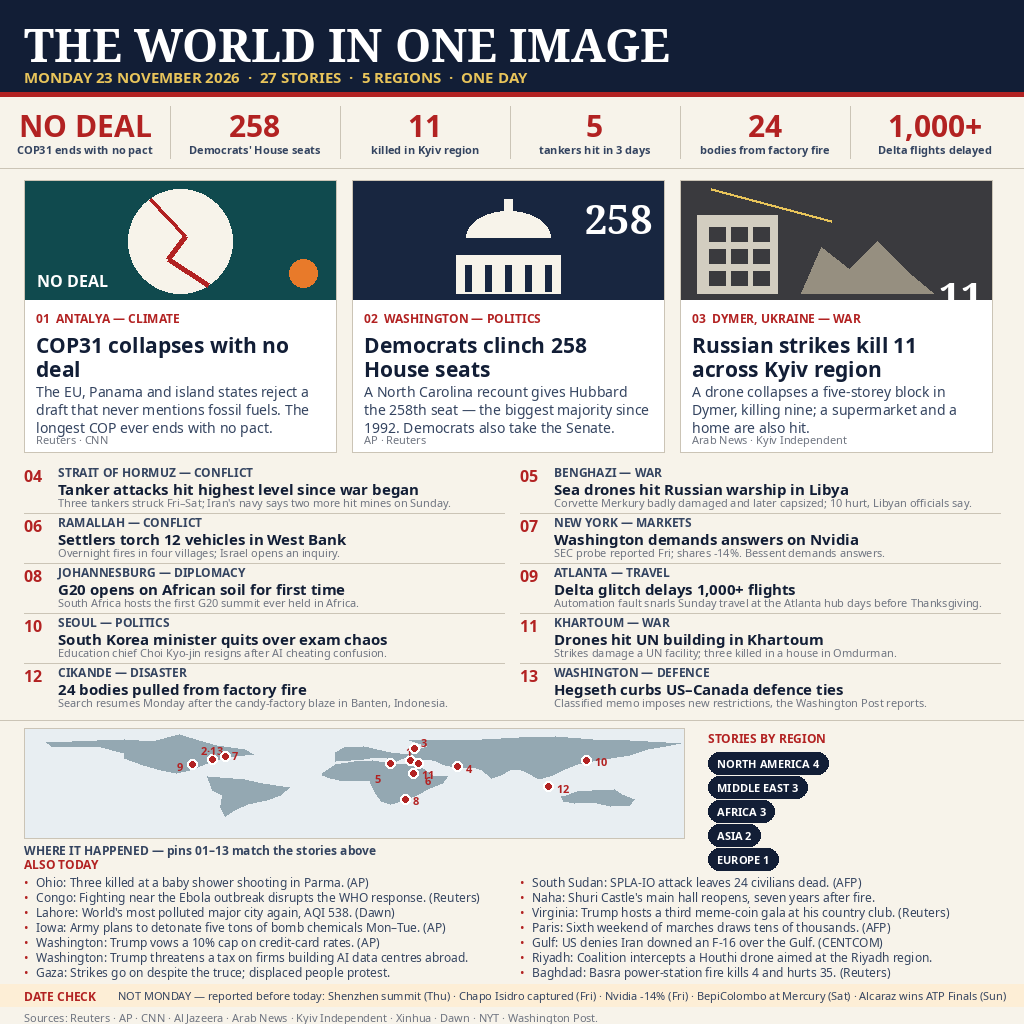
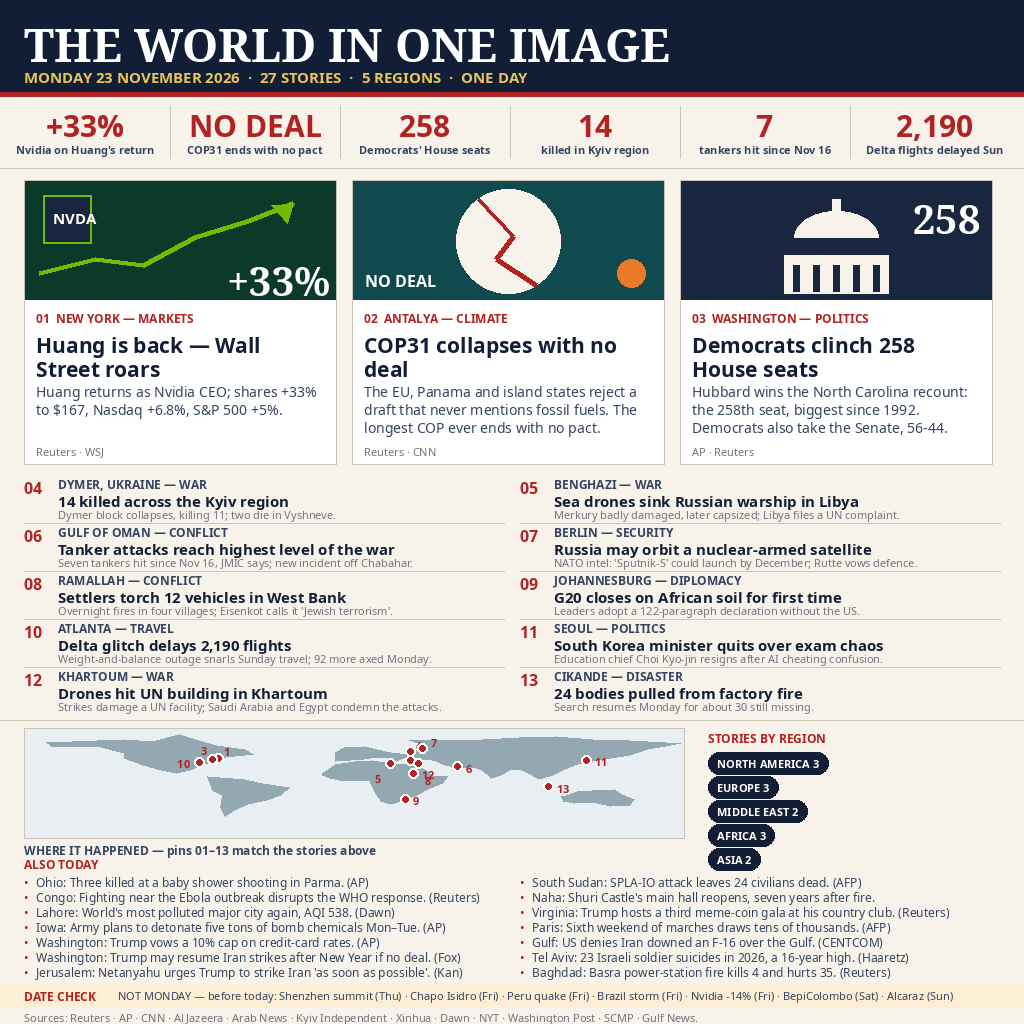
news-image-20261123 v2: full day of Monday 23 November world news in one image
Rebuild with the whole day: Nvidia reinstates Jensen Huang (+33%,
Nasdaq +6.8%, S&P +5%), COP31 collapse, Democrats 258 House seats and
56-seat Senate, Kyiv region toll 14, seven tankers hit, Sputnik-S report,
G20 close, Delta glitch. Every fact re-verified against live reporting
Monday evening; DATE CHECK separates pre-Monday stories.

diff --git a/generate.py b/generate.py
@@ -1,5 +1,11 @@
 #!/usr/bin/env python3
-"""Render 'The World in One Image' for Monday 23 November 2026.
+"""Render 'The World in One Image' for Monday 23 November 2026 — v2.
+
+Full-day rebuild: v1 (built ~02:30 UTC Monday, overnight stories only) was
+deliberately not submitted; this version covers the whole of Monday —
+Nvidia reinstates Jensen Huang and Wall Street surges, the updated Kyiv
+death toll, seven tankers hit, the Sputnik-S report, the G20 close — with
+every fact re-verified against live reporting on Monday evening.
 
 Deterministic Pillow pipeline: no network, no timestamps, no randomness.
 Running it twice must produce byte-identical PNG output.
@@ -55,88 +61,92 @@ F_MAP_LBL = font("sans_b", 11)
 F_NUM = font("sans_b", 16)
 F_BIG_NUM = font("serif_b", 40)
 
-# ---- verified news content: Monday 23 November 2026 ------------------------
-# Every fact below was checked against live reporting (Reuters, AP, CNN,
-# Al Jazeera, Arab News, Kyiv Independent, Xinhua, Dawn) on 23 Nov 2026.
+# ---- verified news content: Monday 23 November 2026 (full day) ------------
+# Every fact below was checked against live reporting on Monday evening
+# (Reuters, AP, CNN, Al Jazeera, Arab News, Kyiv Independent, Xinhua,
+# Dawn, NYT, Washington Post, SCMP, Gulf News, Haaretz, Ukrainska Pravda).
+# Market figures are the closing numbers (Nasdaq +6.8%, S&P 500 +5.1%,
+# Dow +2.8%, Nvidia +33.1% to $167.12 — QNA/Bay Street).
 MASTHEAD_STRAP = "MONDAY 23 NOVEMBER 2026  ·  27 STORIES  ·  5 REGIONS  ·  ONE DAY"
 
 STATS = [
+    ("+33%", "Nvidia on Huang's return"),
     ("NO DEAL", "COP31 ends with no pact"),
     ("258", "Democrats' House seats"),
-    ("11", "killed in Kyiv region"),
-    ("5", "tankers hit in 3 days"),
-    ("24", "bodies from factory fire"),
-    ("1,000+", "Delta flights delayed"),
+    ("14", "killed in Kyiv region"),
+    ("7", "tankers hit since Nov 16"),
+    ("2,190", "Delta flights delayed Sun"),
 ]
 
 FEATURES = [
     {
-        "num": "01", "place": "ANTALYA", "cat": "CLIMATE",
+        "num": "01", "place": "NEW YORK", "cat": "MARKETS",
+        "head": "Huang is back — Wall Street roars",
+        "deck": ("Huang returns as Nvidia CEO; shares +33% to $167, "
+                 "Nasdaq +6.8%, S&P 500 +5%."),
+        "src": "Reuters · WSJ",
+        "art": "nvidia",
+    },
+    {
+        "num": "02", "place": "ANTALYA", "cat": "CLIMATE",
         "head": "COP31 collapses with no deal",
         "deck": ("The EU, Panama and island states reject a draft that never "
-                 "mentions fossil fuels. The longest COP ever ends with no pact."),
+                 "mentions fossil fuels. The longest COP ever ends with no "
+                 "pact."),
         "src": "Reuters · CNN",
         "art": "cop",
     },
     {
-        "num": "02", "place": "WASHINGTON", "cat": "POLITICS",
+        "num": "03", "place": "WASHINGTON", "cat": "POLITICS",
         "head": "Democrats clinch 258 House seats",
-        "deck": ("A North Carolina recount gives Hubbard the 258th seat — the "
-                 "biggest majority since 1992. Democrats also take the Senate."),
+        "deck": ("Hubbard wins the North Carolina recount: the 258th seat, "
+                 "biggest since 1992. Democrats also take the Senate, 56-44."),
         "src": "AP · Reuters",
         "art": "house",
-    },
-    {
-        "num": "03", "place": "DYMER, UKRAINE", "cat": "WAR",
-        "head": "Russian strikes kill 11 across Kyiv region",
-        "deck": ("A drone collapses a five-storey block in Dymer, killing nine; "
-                 "a supermarket and a home are also hit."),
-        "src": "Arab News · Kyiv Independent",
-        "art": "dymer",
     },
 ]
 
 SMALLS = [
-    ("04", "STRAIT OF HORMUZ", "CONFLICT",
-     "Tanker attacks hit highest level since war began",
-     "Three tankers struck Fri–Sat; Iran's navy says two more hit mines on Sunday.",
-     "AP · UKMTO"),
+    ("04", "DYMER, UKRAINE", "WAR",
+     "14 killed across the Kyiv region",
+     "Dymer block collapses, killing 11; two die in Vyshneve.",
+     "Kyiv Independent · Reuters"),
     ("05", "BENGHAZI", "WAR",
-     "Sea drones hit Russian warship in Libya",
-     "Corvette Merkury badly damaged and later capsized; 10 hurt, Libyan officials say.",
+     "Sea drones sink Russian warship in Libya",
+     "Merkury badly damaged, later capsized; Libya files a UN complaint.",
      "AP · Reuters"),
-    ("06", "RAMALLAH", "CONFLICT",
+    ("06", "GULF OF OMAN", "CONFLICT",
+     "Tanker attacks reach highest level of the war",
+     "Seven tankers hit since Nov 16, JMIC says; new incident off Chabahar.",
+     "AP · Gulf News"),
+    ("07", "BERLIN", "SECURITY",
+     "Russia may orbit a nuclear-armed satellite",
+     "NATO intel: 'Sputnik-S' could launch by December; Rutte vows defence.",
+     "Reuters · Arab News"),
+    ("08", "RAMALLAH", "CONFLICT",
      "Settlers torch 12 vehicles in West Bank",
-     "Overnight fires in four villages; Israel opens an inquiry.",
+     "Overnight fires in four villages; Eisenkot calls it 'Jewish terrorism'.",
      "Reuters"),
-    ("07", "NEW YORK", "MARKETS",
-     "Washington demands answers on Nvidia",
-     "SEC probe reported Fri; shares -14%. Bessent demands answers.",
-     "Reuters · NYT"),
-    ("08", "JOHANNESBURG", "DIPLOMACY",
-     "G20 opens on African soil for first time",
-     "South Africa hosts the first G20 summit ever held in Africa.",
-     ""),
-    ("09", "ATLANTA", "TRAVEL",
-     "Delta glitch delays 1,000+ flights",
-     "Automation fault snarls Sunday travel at the Atlanta hub days before Thanksgiving.",
+    ("09", "JOHANNESBURG", "DIPLOMACY",
+     "G20 closes on African soil for first time",
+     "Leaders adopt a 122-paragraph declaration without the US.",
+     "Xinhua"),
+    ("10", "ATLANTA", "TRAVEL",
+     "Delta glitch delays 2,190 flights",
+     "Weight-and-balance outage snarls Sunday travel; 92 more axed Monday.",
      "AP"),
-    ("10", "SEOUL", "POLITICS",
+    ("11", "SEOUL", "POLITICS",
      "South Korea minister quits over exam chaos",
      "Education chief Choi Kyo-jin resigns after AI cheating confusion.",
      "Xinhua"),
-    ("11", "KHARTOUM", "WAR",
+    ("12", "KHARTOUM", "WAR",
      "Drones hit UN building in Khartoum",
-     "Strikes damage a UN facility; three killed in a house in Omdurman.",
+     "Strikes damage a UN facility; Saudi Arabia and Egypt condemn the attacks.",
      "Arab News"),
-    ("12", "CIKANDE", "DISASTER",
+    ("13", "CIKANDE", "DISASTER",
      "24 bodies pulled from factory fire",
-     "Search resumes Monday after the candy-factory blaze in Banten, Indonesia.",
-     "Xinhua"),
-    ("13", "WASHINGTON", "DEFENCE",
-     "Hegseth curbs US–Canada defence ties",
-     "Classified memo imposes new restrictions, the Washington Post reports.",
-     "Washington Post"),
+     "Search resumes Monday for about 30 still missing.",
+     "Reuters"),
 ]
 
 BRIEFS = [
@@ -150,19 +160,19 @@ BRIEFS = [
     ("Paris", "Sixth weekend of marches draws tens of thousands. (AFP)"),
     ("Washington", "Trump vows a 10% cap on credit-card rates. (AP)"),
     ("Gulf", "US denies Iran downed an F-16 over the Gulf. (CENTCOM)"),
-    ("Washington", "Trump threatens a tax on firms building AI data centres abroad."),
-    ("Riyadh", "Coalition intercepts a Houthi drone aimed at the Riyadh region."),
-    ("Gaza", "Strikes go on despite the truce; displaced people protest."),
+    ("Washington", "Trump may resume Iran strikes after New Year if no deal. (Fox)"),
+    ("Tel Aviv", "23 Israeli soldier suicides in 2026, a 16-year high. (Haaretz)"),
+    ("Jerusalem", "Netanyahu urges Trump to strike Iran 'as soon as possible'. (Kan)"),
     ("Baghdad", "Basra power-station fire kills 4 and hurts 35. (Reuters)"),
 ]
 
-DATE_CHECK = ("NOT MONDAY — reported before today: Shenzhen summit (Thu) · "
-              "Chapo Isidro captured (Fri) · Nvidia -14% (Fri) · "
-              "BepiColombo at Mercury (Sat) · Alcaraz wins ATP Finals (Sun)")
+DATE_CHECK = ("NOT MONDAY — before today: Shenzhen summit (Thu) · "
+              "Chapo Isidro (Fri) · Peru quake (Fri) · Brazil storm (Fri) · "
+              "Nvidia -14% (Fri) · BepiColombo (Sat) · Alcaraz (Sun)")
 
-FOOTER = "Sources: Reuters · AP · CNN · Al Jazeera · Arab News · Kyiv Independent · Xinhua · Dawn · NYT · Washington Post."
+FOOTER = "Sources: Reuters · AP · CNN · Al Jazeera · Arab News · Kyiv Independent · Xinhua · Dawn · NYT · Washington Post · SCMP · Gulf News."
 
-REGION_CHIPS = ["NORTH AMERICA 4", "MIDDLE EAST 3", "AFRICA 3", "ASIA 2", "EUROPE 1"]
+REGION_CHIPS = ["NORTH AMERICA 3", "EUROPE 3", "MIDDLE EAST 2", "AFRICA 3", "ASIA 2"]
 
 # ---- text helpers ------------------------------------------------------------
 def wrap(draw, text, fnt, width):
@@ -184,6 +194,21 @@ def text(draw, xy, s, fnt, fill=INK, anchor="la"):
     draw.text(xy, s, font=fnt, fill=fill, anchor=anchor)
 
 # ---- banner art (simple flat shapes, drawn, not photos) ----------------------
+def banner_nvidia(d, x, y, w, h):
+    d.rectangle([x, y, x + w, y + h], fill=(12, 58, 40))
+    # rising market line with arrowhead
+    pts = [(x + 14, y + 92), (x + 70, y + 78), (x + 118, y + 84),
+           (x + 170, y + 56), (x + 222, y + 40), (x + 268, y + 22)]
+    d.line(pts, fill=(118, 185, 0), width=5)
+    d.polygon([(x + 268, y + 22), (x + 246, y + 24), (x + 262, y + 42)],
+              fill=(118, 185, 0))
+    # chip square
+    d.rectangle([x + 18, y + 14, x + 66, y + 62], fill=(24, 38, 64),
+                outline=(118, 185, 0), width=2)
+    d.text((x + 28, y + 26), "NVDA", font=F_SMALL_HEAD, fill=(255, 255, 255))
+    d.text((x + w - 108, y + h - 46), "+33%", font=F_BIG_NUM,
+           fill=(255, 255, 255))
+
 def banner_cop(d, x, y, w, h):
     d.rectangle([x, y, x + w, y + h], fill=(16, 74, 78))
     d.ellipse([x + w // 2 - 52, y + 8, x + w // 2 + 52, y + 112], fill=(247, 243, 234))
@@ -206,21 +231,7 @@ def banner_house(d, x, y, w, h):
                     fill=(24, 38, 64))
     d.text((x + w - 78, y + 10), "258", font=F_BIG_NUM, fill=(255, 255, 255))
 
-def banner_dymer(d, x, y, w, h):
-    d.rectangle([x, y, x + w, y + h], fill=(58, 58, 62))
-    # standing block left, collapsed jagged block right
-    d.rectangle([x + 16, y + 34, x + 96, y + 112], fill=(210, 205, 192))
-    for r in range(3):
-        for c in range(3):
-            d.rectangle([x + 28 + c * 22, y + 46 + r * 22,
-                         x + 44 + c * 22, y + 60 + r * 22], fill=(58, 58, 62))
-    d.polygon([(x + 120, y + 112), (x + 140, y + 66), (x + 168, y + 88),
-               (x + 196, y + 60), (x + 228, y + 92), (x + 252, y + 112)],
-              fill=(150, 143, 128))
-    d.line([x + 30, y + 8, x + 150, y + 40], fill=(232, 196, 90), width=3)
-    d.text((x + w - 52, y + h - 30), "11", font=F_BIG_NUM, fill=(255, 255, 255))
-
-BANNERS = {"cop": banner_cop, "house": banner_house, "dymer": banner_dymer}
+BANNERS = {"nvidia": banner_nvidia, "cop": banner_cop, "house": banner_house}
 
 # ---- stylised world map ------------------------------------------------------
 # Rough continent outlines as (lon, lat) polygons; equirectangular projection.
@@ -247,17 +258,17 @@ CONTINENTS = [
      (153, -27), (146, -19), (142, -11), (135, -12), (130, -13), (122, -14),
      (114, -22)],
 ]
-# numbered pins: (lon, lat, label, label dx, label dy) — 2 and 13 share
-# one Washington dot, labelled "2·13", so the two stories stay visible.
-# Dots are nudged a few degrees where the map scale would merge them;
-# the map is stylised, not a survey chart.
+# numbered pins: (lon, lat, label, label dx, label dy) — one pin per story
+# 01–13. Dots are nudged a few degrees where the map scale would merge
+# them; the map is stylised, not a survey chart.
 PINS = [
-    (30.7, 36.9, "1", -4, -16), (-77.0, 38.9, "2·13", -12, -16),
-    (33.0, 56.0, "3", 6, -14), (56.5, 26.6, "4", 8, -6),
-    (20.1, 32.1, "5", -16, 8), (35.2, 31.9, "6", 6, 10),
-    (-70.0, 44.0, "7", 6, -8), (28.0, -26.2, "8", 8, -6),
-    (-88.0, 30.0, "9", -16, -6), (127.0, 37.5, "10", 8, -6),
-    (32.5, 15.6, "11", 8, -6), (106.1, -6.2, "12", 8, -6),
+    (-74.0, 40.7, "1", 6, -14), (30.7, 36.9, "2", -4, -16),
+    (-77.0, 38.9, "3", -12, -16), (30.7, 50.9, "4", 6, -14),
+    (20.1, 32.1, "5", -16, 8), (56.5, 26.6, "6", 8, -6),
+    (37.6, 55.7, "7", 8, -14), (35.2, 31.9, "8", 6, 10),
+    (28.0, -26.2, "9", 8, -6), (-84.4, 33.7, "10", -22, -6),
+    (127.0, 37.5, "11", 8, -6), (32.5, 15.6, "12", 8, -6),
+    (106.1, -6.2, "13", 8, -6),
 ]
 
 def draw_map(d, x, y, w, h):
@@ -299,7 +310,7 @@ def render():
     d.line([0, 168, W, 168], fill=GREY_LINE, width=1)
 
     # features: three columns
-    fx, fy, fw, fh = 24, 180, 312, 272
+    fx, fy, fw, fh = 24, 180, 312, 284
     gap = 16
     for i, f in enumerate(FEATURES):
         x = fx + i * (fw + gap)
@@ -319,9 +330,9 @@ def render():
         d.text((x + 12, fy + fh - 20), f["src"], font=F_FOOT, fill=MUTED)
 
     # smalls: two columns x five rows
-    sy = 464
+    sy = 476
     col_w = (W - 48 - 16) // 2
-    row_h = 50
+    row_h = 48
     for i, (num, place, cat, head, deck, src) in enumerate(SMALLS):
         col, row = i % 2, i // 2
         x = 24 + col * (col_w + 16)

diff --git a/README.md b/README.md
@@ -4,7 +4,7 @@
 [![rank](https://make.fun/badge/news-image-20261123/WV629/news-image-20261123/rank.svg)](https://make.fun/bounty/news-image-20261123/leaderboard?utm_source=github&utm_medium=readme&utm_campaign=news-image-20261123)
 [![reward](https://make.fun/badge/news-image-20261123/WV629/news-image-20261123/reward.svg)](https://make.fun/bounty/news-image-20261123?utm_source=github&utm_medium=readme&utm_campaign=news-image-20261123)
 
-A deterministic Pillow program that draws Monday 23 November 2026's world news — COP31 collapse, Democrats' 258 House seats, Kyiv strikes and 24 more stories — into one 1024x1024 image.
+A deterministic Pillow program that draws Monday 23 November 2026's full day of world news — Nvidia's Huang comeback and the Wall Street surge, the COP31 collapse, Democrats' 258 House seats, Kyiv strikes and 23 more stories — into one 1024x1024 image.
 
 ## Run it
 
